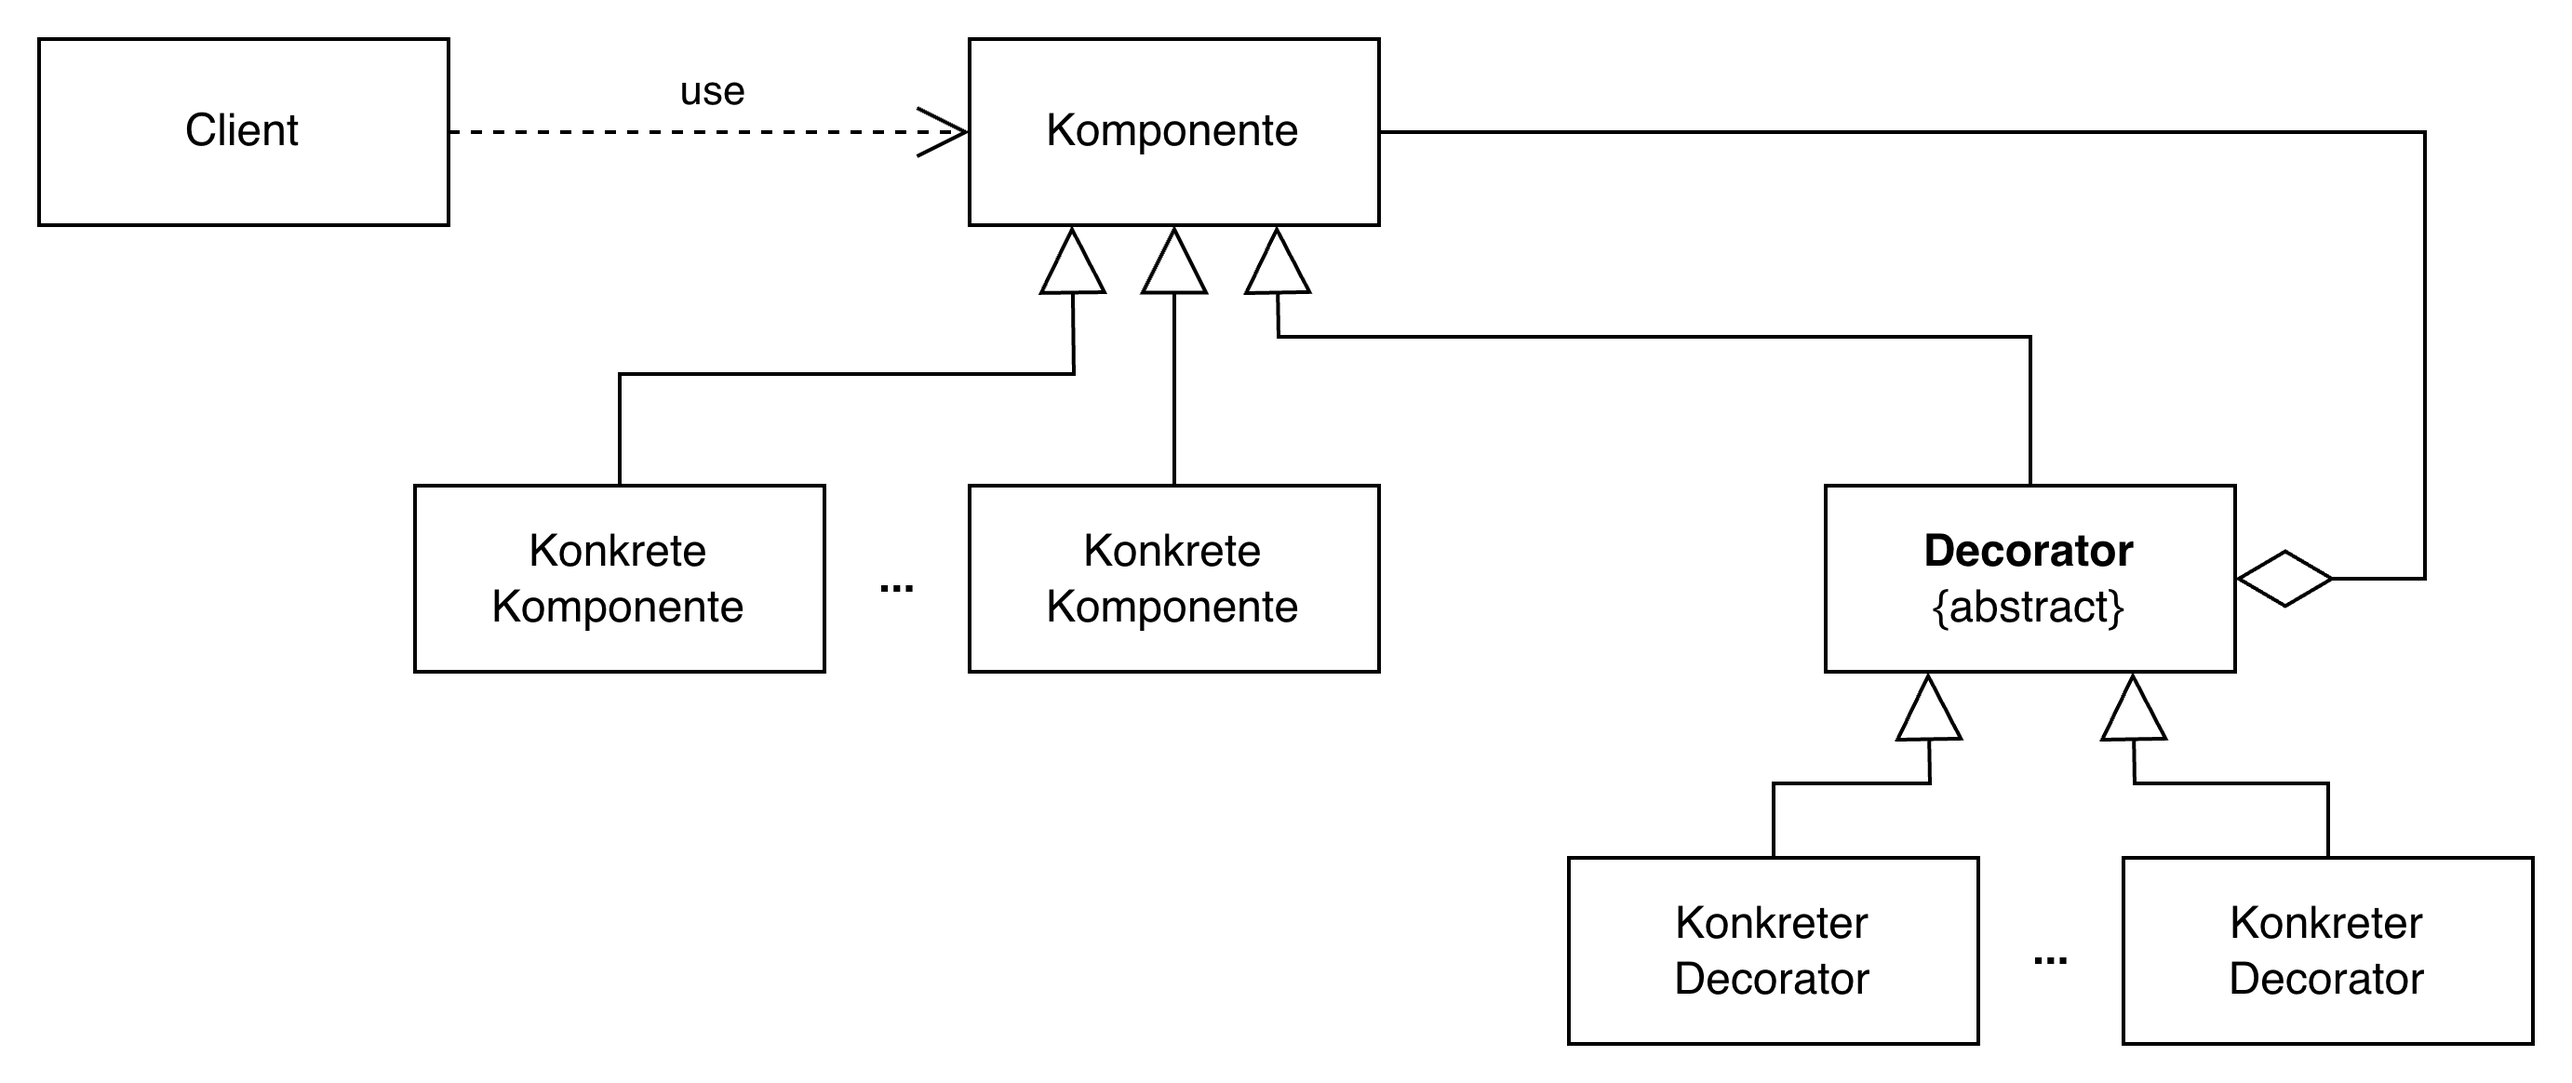
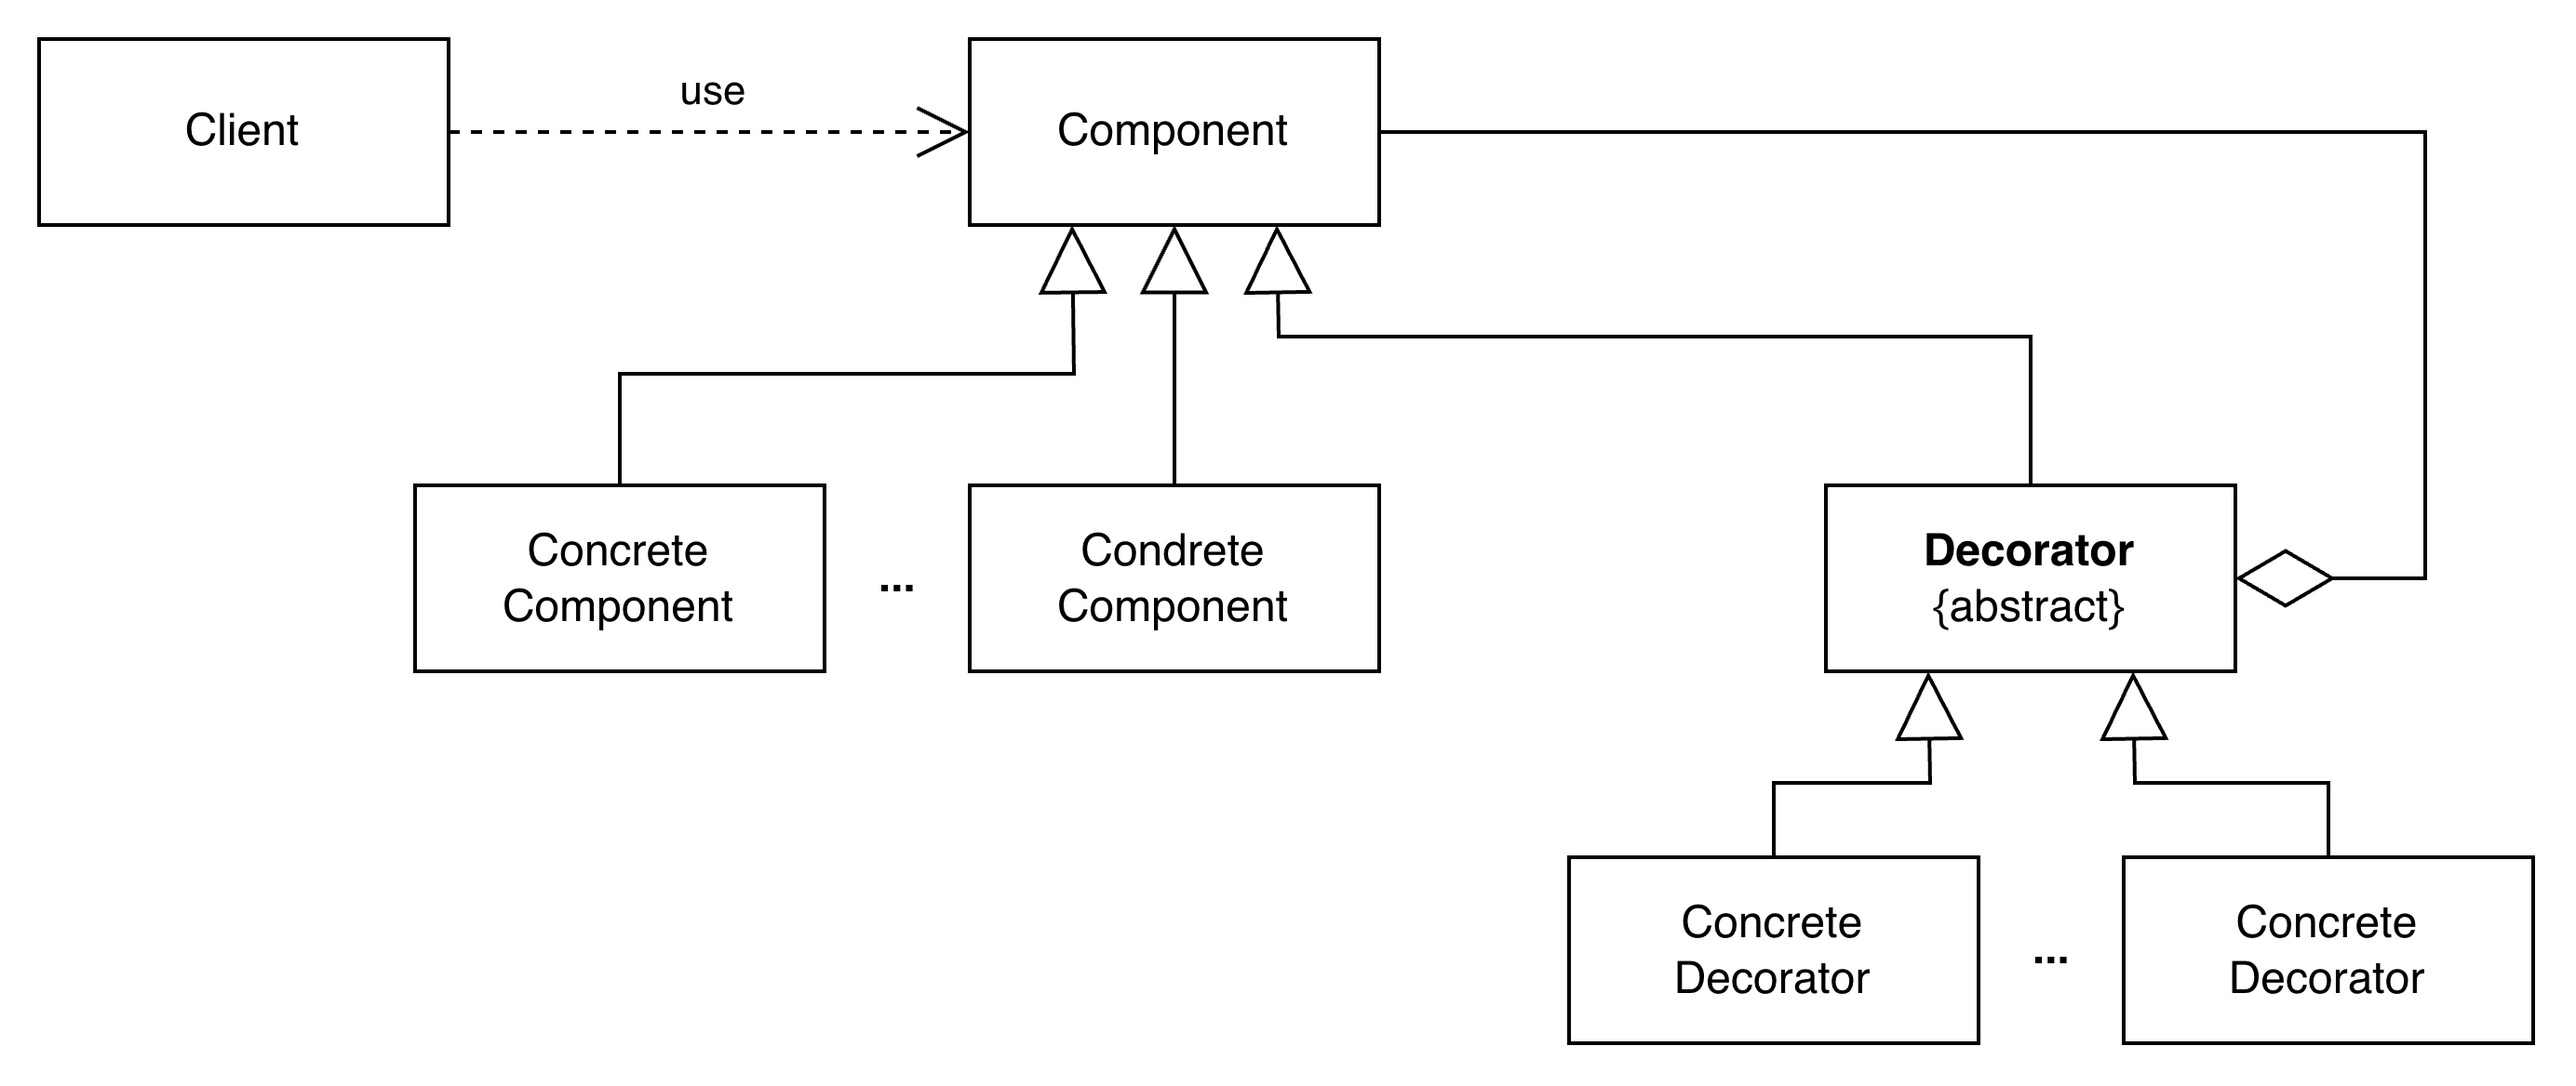
main: decorator

diff --git a/patterns/structural/decorator/document/AuthenticatedDocumentService.java b/patterns/structural/decorator/document/AuthenticatedDocumentService.java
@@ -1,0 +1,22 @@
+package structural.decorator.document;
+
+import structural.decorator.auth.Role;
+import structural.decorator.auth.User;
+
+public class AuthenticatedDocumentService implements IDocumentService {
+    private final IDocumentService delegate;
+    private final User user;
+
+    public AuthenticatedDocumentService(IDocumentService delegate, User user) {
+        this.delegate = delegate;
+        this.user = user;
+    }
+
+    @Override
+    public void read(String id) {
+        if (user.getRole() != Role.ADMIN) {
+            throw new SecurityException("Access denied");
+        }
+        delegate.read(id);
+    }
+}

diff --git a/patterns/structural/decorator/router/Router.java b/patterns/structural/decorator/router/Router.java
@@ -1,0 +1,20 @@
+package structural.decorator.router;
+
+import structural.decorator.auth.User;
+import structural.decorator.document.AuthenticatedDocumentService;
+import structural.decorator.document.DefaultDocumentService;
+import structural.decorator.document.IDocumentService;
+
+public class Router {
+    IDocumentService documentEndpoint;
+
+    public Router(User user) {
+        IDocumentService core = new DefaultDocumentService();
+        this.documentEndpoint =
+                new AuthenticatedDocumentService(core, user);
+    }
+
+    public void handleRequest(String docId) {
+        documentEndpoint.read(docId);
+    }
+}

diff --git a/patterns/structural/decorator/Main.java b/patterns/structural/decorator/Main.java
@@ -1,7 +1,20 @@
 package structural.decorator;
 
+import structural.decorator.auth.Role;
+import structural.decorator.auth.User;
+import structural.decorator.router.Router;
+
 public class Main {
     public static void main(String[] args) {
+        User admin = new User(Role.ADMIN);
+        User guest = new User(Role.USER);
 
+        new Router(admin).handleRequest("doc-1");   // OK
+
+        try {
+            new Router(guest).handleRequest("doc-2");   // Exception
+        } catch (SecurityException e) {
+            System.out.println(e.getMessage());
+        }
     }
 }

diff --git a/patterns/structural/decorator/document/DefaultDocumentService.java b/patterns/structural/decorator/document/DefaultDocumentService.java
@@ -1,0 +1,8 @@
+package structural.decorator.document;
+
+public class DefaultDocumentService implements IDocumentService {
+    @Override
+    public void read(String id) {
+        System.out.println("Reading document " + id);
+    }
+}

diff --git a/patterns/structural/decorator/auth/User.java b/patterns/structural/decorator/auth/User.java
@@ -1,0 +1,14 @@
+package structural.decorator.auth;
+
+public class User {
+
+    private final Role role;
+
+    public User(Role role) {
+        this.role = role;
+    }
+
+    public Role getRole() {
+        return role;
+    }
+}

diff --git a/patterns/structural/decorator/document/IDocumentService.java b/patterns/structural/decorator/document/IDocumentService.java
@@ -1,0 +1,5 @@
+package structural.decorator.document;
+
+public interface IDocumentService {
+    void read(String id);
+}

diff --git a/patterns/structural/decorator/auth/Role.java b/patterns/structural/decorator/auth/Role.java
@@ -1,0 +1,5 @@
+package structural.decorator.auth;
+
+public enum Role {
+    ADMIN, USER
+}
